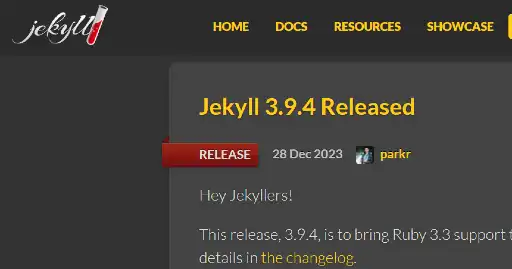
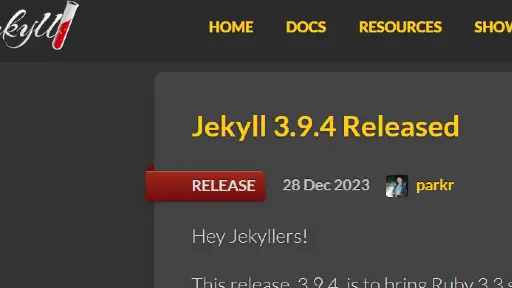
css changes for assignment 1
made a lost of css changes for responsive design using display: block and display:flex.

diff --git a/wfed1/assingment/assignment01/index.html b/wfed1/assingment/assignment01/index.html
@@ -5,11 +5,12 @@
     <title>Assignment 1 - Extract UI Items</title>
     <meta charset="utf-8">
     <meta name="viewport" content="width=device-width, initial-scale=1">
-	<link rel="stylesheet" href="/wfed1/assingment/assignment01/stylesheet.css" type="text/css">
+	<link rel="stylesheet" href="/wfed1/assingment/assignment01/screen.css">
+    <script src="https://buchholz.bitweb1.nwtc.edu/api/wfed1/a01/script.js"></script>
 </head>
 
 <body>
-    <div class="container">
+    <div class="wrapper">
 
         <header>
             <h1>Assignment 1 - Extract UI Items</h1>
@@ -23,7 +24,7 @@
                 </a>
             </figure>
             <div class="post-content">
-                <h2><a class="target-site" href="https://jekyllrb.com">jekyllrb.com</a></h2>
+                <h2><a class="target-site" href="https://jekyllrb.com">jekyllrb.com - UI Navbar</a></h2>
                 <h3>UI NavBar Item - Summary</h3>
                 <p>This UI navigation item is unique.  On hover, the navigation link looks depressed.  Its a small detail, but I really like the way it looks!  It also helps show the user which link they are looking at.</p>
                 <h3>UI NavBar Links- Techniques</h3>
@@ -39,7 +40,7 @@
                 </a>
             </figure>
             <div class="post-content">
-                <h2><a class="target-site" href="https://jekyllrb.com/docs/">jekyllrb.com</a></h2>
+                <h2><a class="target-site" href="https://jekyllrb.com/docs/">jekyllrb.com - UI Red Dividers</a></h2>
                 <h3>Red Divider Lines - Summary</h3>
                 <p>The red lines divide the content in the aside.  It gives a nice seperator to each section.</p>
                 <h3>Red Divider lines- Techniques</h3>
@@ -56,7 +57,7 @@
                 </a>
             </figure>
             <div class="post-content">
-                <h2><a class="target-site" href="https://jekyllrb.com/news/">jekyllrb.com</a></h2>
+                <h2><a class="target-site" href="https://jekyllrb.com/news/">jekyllrb.com - UI 3D Ribbon</a></h2>
                 <h3>Red 3D Ribbon - Summary</h3>
                 <p>The addition of the small triangle above the red ribbon give the ribbon a 3D look.  Again its a small detail that the designer added to make the website "fun".</p>
                 <h3>Red 3D Ribbon - Techniques</h3>
@@ -72,7 +73,7 @@
                 </a>
             </figure>
             <div class="post-content">
-                <h2><a class="target-site" href="https://jekyllrb.com/news/2023/12/28/jekyll-3-9-4-released/">jekyllrb.com</a></h2>
+                <h2><a class="target-site" href="https://jekyllrb.com/news/2023/12/28/jekyll-3-9-4-released/">jekyllrb.com - UI Arrow</a></h2>
                 <h3>Arrow Pointer - Summary</h3>
                 <p>The arrow pointer is used to show the user the link they are currently looking at.  Its a great UI/UX tool to use so the user doesnt have to guess where they.  I like the use of it from an ease of use stand point.</p>
                 <h3>Arrow Pointer - Techniques</h3>
@@ -81,7 +82,6 @@
         </section>
 
 		<footer>
-    		<a class="foot-link" href="https://chenrickson.bitweb1.nwtc.edu/">&copy; 2024 NWTC - Chris Henrickson</a>
 			<a id="valid" href="javascript:location='https://jigsaw.w3.org/css-validator/validator?uri='+escape(location)">CSS</a>
 			<a id="valid2" href="javascript:location='https://validator.w3.org/nu/?doc='+escape(location)">HTML</a>
 		</footer>

diff --git a/wfed1/assingment/assignment01/screen.css b/wfed1/assingment/assignment01/screen.css
@@ -1,0 +1,159 @@
+ @import url('https://fonts.googleapis.com/css2?family=Raleway:ital,wght@0,100..900;1,100..900&display=swap');
+@import url('https://fonts.googleapis.com/css2?family=Playfair+Display:ital,wght@0,400..900;1,400..900&display=swap');
+
+*,
+*::before,
+*::after {
+    box-sizing: border-box;
+}
+
+body {
+    background: antiquewhite;
+    font-family: "Raleway", sans-serif;
+}
+
+.wrapper {
+    margin: 0 auto;
+    max-width: 1000px;
+    display: block;
+    gap: 10px;
+    padding: 10px;
+    background: rgb(168, 168, 245);
+}
+
+header{
+    display: block;
+    padding: 5px;
+    background: rgb(200, 200, 244);
+    border: 5px dashed white;
+    border-radius: 5px;
+}    
+
+header h1 {
+    text-align: center;
+    text-transform: uppercase;
+}
+
+section{
+    display: block;
+    font-family: "Playfair Display", serif;
+    background: antiquewhite;
+    box-shadow: 0 0 10px rgb(7, 28, 92);
+    border-radius: 10px;
+}
+
+h2{
+    text-align: center;
+    font-size: 2em;
+}
+
+.caption{
+    text-align: center;
+    font-size: 2em;
+    font-weight: bolder;
+    text-decoration: underline;
+}
+
+a{
+    color: black;
+    text-decoration: none;
+}
+
+.target-site:hover{
+    text-decoration: underline;
+    text-shadow: 1px 1px royalblue;
+}
+
+.post {
+    display: block; 
+    padding: 10px;
+    gap: 15px;
+    padding-bottom: 10px;
+    border-bottom: 5px solid royalblue;
+    margin-bottom: 10px;
+}
+
+.post-featured-image {
+    margin: 0;
+}
+
+.post-featured-image img {
+    width:100%;
+    aspect-ratio: 16 / 9;
+    object-fit: cover;
+    padding: 5px;
+    background-color: aliceblue;
+    border: 3px solid royalblue;
+    border-radius: 10px;
+    max-width: auto;
+}
+
+figure{
+    display: block;
+    margin-block-start: 1em;
+    margin-block-end: 1em;
+    margin-inline-start: 20px;
+    margin-inline-end: 20px;;
+}
+
+h3{
+    display: block;
+    margin-block-start: 1em;
+    margin-block-end: 1em;
+    margin-inline-start: 30px;
+    margin-inline-end: 30px;
+    font-family: "Raleway", sans-serif;
+}
+
+p{
+    display: block;
+    margin-block-start: 1em;
+    margin-block-end: 1em;
+    margin-inline-start: 5px;
+    margin-inline-end: 5px;
+}
+
+.post-featured-image img:hover{
+    box-shadow: 0 0 15px royalblue;
+}
+
+footer {
+    display:flex;
+    justify-content: flex-end;
+    align-items: center;
+    background: black;
+    padding:40px;
+    border-radius: 15px;
+}
+
+#valid{
+    display: block;
+    color:white;
+}
+
+#valid:hover{
+    color:rgb(63, 241, 53);
+    text-decoration: underline;
+}
+
+#valid2{
+    color:white;
+    margin-left: 20px;
+}
+
+#valid2:hover{
+    color:rgb(63, 241, 53);
+    text-decoration: underline;
+}
+
+@media screen and (min-width: 768px) {
+    .post {
+        flex-direction: row;
+    }
+
+    .post-content {
+        padding: 20px;
+    }
+}
+
+ 
